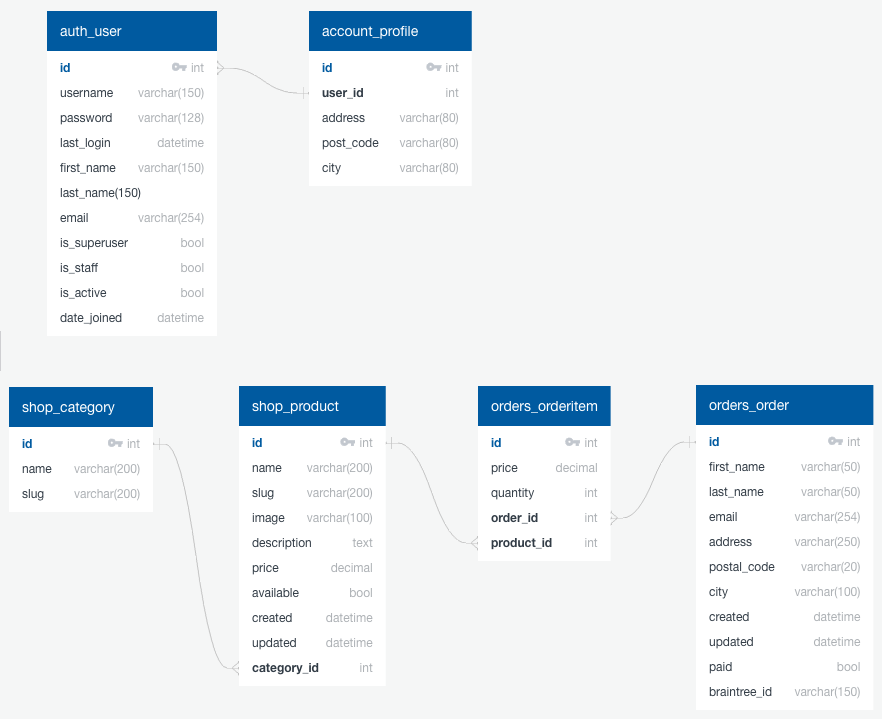
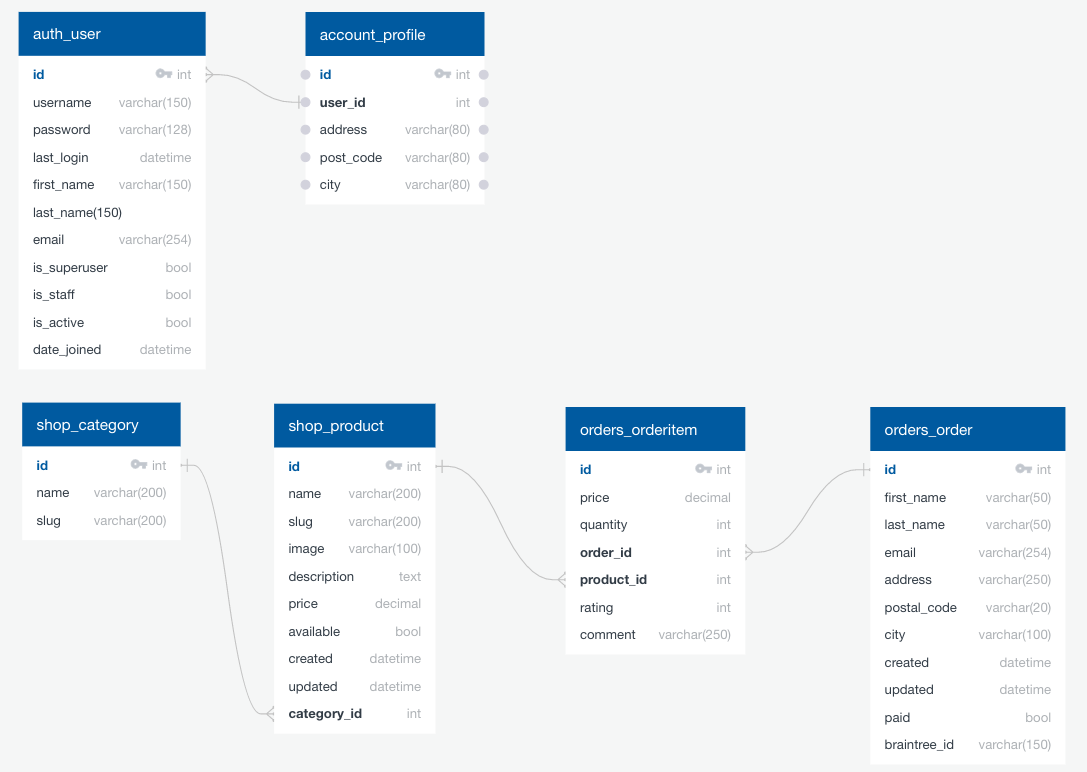
Code: Updated and cleaned up the Character Dashboard 'dashboard.html' and Edit/Delete 'comment_edit.html' templates. Orders with update and delete links are added to a table.
Test: Manuallay tested the template updates on both Mobile (portrait and landscape mode) and Dektop. = OK!

Documentation: Updated the DB Schema to include the comment and rating fields in the Order Model (orders_orders table) and added it to 'README.md'.

Deployment: Pull Request from development to master branch on GitHub with deployment to Heroku. Then test on Heroku before making code "production-ready".

diff --git a/account/templates/account/dashboard.html b/account/templates/account/dashboard.html
@@ -16,16 +16,27 @@
         {% endif %}
     </span>
     <div>
-        <h4>Order List for {{ user }}</h4>
-        {% for ord in order %}
-        {% if ord.email == request.user.email %}
-        <p>{{ord}}</p>
-        <p><a href="{% url 'comment_edit' ord.id %}">{{ ord.id }} {{ ord.rating }} {{ ord.comment }}<button
-                    class="comment_button">Edit</button></a></p>
-        <p><a href="{% url 'comment_delete' ord.id %}">{{ ord.id }} {{ ord.rating }} {{ ord.comment }}<button
-                    class="comment_button">Delete</button></a></p>
-        {% endif %}
-        {% endfor %}
+        <h3>Order List for {{ user }}</h3>
+        <table>
+            <thead>
+                <tr>
+                    <th>Order #</th>
+                    <th>Add/Update Comments</th>
+                    <th>Remove Comments</th>
+                </tr>
+            </thead>
+            <tbody>
+                {% for ord in order %}
+                {% if ord.email == request.user.email %}
+                <tr>
+                    <td>{{ord}}</td>
+                    <td><a href="{% url 'comment_edit' ord.id %}">{{ ord.rating }} / {{ ord.comment }}</a></td>
+                    <td><a href="{% url 'comment_delete' ord.id %}">{{ ord.rating }} / {{ ord.comment }}</a></td>
+                </tr>
+                {% endif %}
+                {% endfor %}
+            </tbody>
+        </table>
     </div>
 </div>
 {% endblock %}

diff --git a/static/styles/base.css b/static/styles/base.css
@@ -158,8 +158,10 @@ textarea.materialize-textarea:focus:not([readonly]) {
     width: 350px !important;
 }
 
-/* All Buttons */
-button,
+/* All Submit / Update Buttons */
+a.button,
+button:focus,
+.update_button,
 input[type="submit"] {
     color: #fff;
     background: black;

diff --git a/account/templates/account/comment_edit.html b/account/templates/account/comment_edit.html
@@ -14,7 +14,7 @@
     </div>
     <div>
         <p>
-            <button type="submit">Update Item</button>
+            <button class="update_button" type="submit">Update Item</button>
         </p>
     </div>
     </form>
